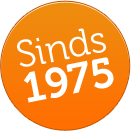
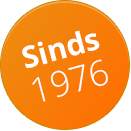
progress

diff --git a/dev/scss/modules/_content.scss b/dev/scss/modules/_content.scss
@@ -44,7 +44,7 @@
 	margin-left: 174px;
 	position: absolute;
 	right: 0;
-	bottom: -134px;
+	bottom: -74px;
 }
 
 
@@ -148,6 +148,26 @@
 	width: 255px;
 }
 
+.home-boxes-right-top{
+	text-align: center;
+	margin-top: 20px;
+	position: relative;
+}
+
+.home-boxes-right-top b{
+	font-size: 16px;
+}
+
+.home-boxes-right-top p {
+	text-align: left;
+	color: #6f6f6f;
+}
+
+.home-boxes-right-top img{
+	margin-top: 10px;
+	width: 255px;
+}
+
 .home-box-right{
 	margin-top: 20px;
 }
@@ -157,7 +177,7 @@
 }
 
 .producten-lijst{
-	color: #8a8a8a;
+	color: #616161;
 	list-style-image: url('../img/list-button.png');
 	padding-left: 16px;
 }
@@ -220,6 +240,13 @@
 
 	.orange-button{
 		display: none;
+	}
+
+}
+
+@media all and (max-width: 500px) { 
+	.big-button-text{
+		font-size: 14px;
 	}
 
 }

diff --git a/dev/scss/modules/_footer.scss b/dev/scss/modules/_footer.scss
@@ -1,7 +1,7 @@
 .Footer {
 	background: #244570;
-	padding-top: 30px;
-	padding-bottom: 30px;
+	padding-top: 45px;
+	padding-bottom: 0px;
 }
 
 .Socket{

diff --git a/dev/php/templates/template-home.php b/dev/php/templates/template-home.php
@@ -67,33 +67,57 @@ Template Name: Homepage
 <div class="u-gridContainer main-content">
 	<div class="u-gridRow main-content-space"> 
 		<div class="u-gridCol4 home-boxes">
-			 <b>Bent u opzoek naar dubbelglas?</b>
+			 <b>Meer informatie over Dubbelglas</b>
 			 <a class="button-style meer-info-box" href="/dubbelglas">Meer informatie</a>
 			 <img src="<?php echo get_stylesheet_directory_uri();?>/img/dubbelglas.jpg">
 			 <p>De Glaswacht is gespecialiseerd in dubbelglas.</p>
 		</div>
 
 		<div class="u-gridCol4 home-boxes">
-			 <b>U zoekt een specifiek glasproduct?</b>
+			 <b>Dubbelglas in bestaande kozijnen</b>
 			 <a class="button-style meer-info-box" href="http://www.glaswacht.com">Meer informatie</a>
-			 <img src="<?php echo get_stylesheet_directory_uri();?>/img/glasproduct.jpg">
-			 <p>De glaswacht heeft een breed assortiment aan producten.</p>
+			 <img src="<?php echo get_stylesheet_directory_uri();?>/img/houtenkozijn.png">
+			 <p>Wij plaatsen Dubbelglas in bestaande <br> houten kozijnen</p>
+		</div>
+
+		<div class="u-gridCol4 home-boxes-right-top">
+			 <b>Dubbelglas in Stalen kozijnen</b>
+			 <a class="button-style meer-info-box" href="/stalen-kozijnen">Meer informatie</a>
+			 <img src="<?php echo get_stylesheet_directory_uri();?>/img/stalenkozijn.png">
+			 <p>Wij plaatsen Dubbelglas in bestaande <br> stalen kozijnen</p>
+		</div>			
+	</div>
+
+	<div class="u-gridRow main-content-space"> 
+		<div class="u-gridCol4 home-boxes">
+			 <b>Dubbelglas in Aluminium kozijnen</b>
+			 <a class="button-style meer-info-box" href="/aluminium-kozijnen">Meer informatie</a>
+			 <img src="<?php echo get_stylesheet_directory_uri();?>/img/aluminiumkozijnen.png">
+			 <p>Wij plaatsen Dubbelglas in bestaande <br> aluminium kozijnen</p>
+		</div>
+
+		<div class="u-gridCol4 home-boxes">
+			 <b>Dubbelglas Stuk?</b>
+			 <a class="button-style meer-info-box" href="/dubbelglas-stuk">Meer informatie</a>
+			 <img src="<?php echo get_stylesheet_directory_uri();?>/img/dubbelglas-stuk.png">
+			 <p>Natuurlijk kunnen wij ook uw dubbele ruit repareren</p>
 		</div>
 
 		<div class="u-gridCol4 home-box-right">
 			 <b>Glaswacht verzorgt o.a.</b>
 
 			 <ul class="producten-lijst">
-			 	<li>Alle glasreparaties</li>
-			 	<li>Dubbele beglazing</li>
-			 	<li>Spiegels- en vensterglas</li>
-			 	<li>Glas in lood / koper</li>
-			 	<li>Badkamer deuren / schermen</li>
-			 	<li>Hardglas-beveiliging</li>
-			 	<li>Gezandstraald glas</li>
+			 	<li><a href="http://www.glaswacht.com/">Alle glasreparaties</a></li>
+			 	<li><a href="http://www.glaswacht.com/">Dubbele beglazing</a></li>
+			 	<li><a href="http://www.glaswacht.com/producten/spiegels/">Spiegels- en vensterglas</a></li>
+			 	<li><a href="http://www.glaswacht.com/">Glas in lood / koper</a></li>
+			 	<li><a href="http://www.glaswacht.com/producten/Alles-voor-in-de-douche/">Badkamer deuren / schermen</a></li>
+			 	<li><a href="http://www.glaswacht.com/producten/veiligheidsglas/">Hardglas-beveiliging</a></li>
+			 	<li><a href="http://www.glaswacht.com/">Gezandstraald glas</a></li>
 			 </ul>
 		</div>				
 	</div>
+
 </div>
 
 <?php get_footer(); ?>

diff --git a/dev/php/templates/footer.php b/dev/php/templates/footer.php
@@ -28,10 +28,12 @@
 						2565 ES Den Haag <br>
 						T: (070) 363 2860 <br>
 						F: (070) 427 6866 <br>
-						E: info@glaswacht.nl
+						E: info@glaswacht.com
 					</p>
 
-					<a href="/app">Download de Dubbelglas app</a>
+					<a href="/app">Download de Dubbelglas app</a> <br><br>
+			 
+			 		<a target="_blank" href="https://www.facebook.com/pages/Glashandel-de-Glaswacht-Den-Haag/431399946898058?sk=timeline&ref=page_internal"><img src="<?php echo get_stylesheet_directory_uri();?>/img/facebook.png"></a>
 
 					<?php if ( is_active_sidebar( 'footer-widgets' ) ) : ?>
 					<div class="Footer-inner u-gridRow">

diff --git a/dev/php/templates/template-landingspagina.php b/dev/php/templates/template-landingspagina.php
@@ -42,7 +42,7 @@ Template Name: Landingspagina
 
 
 	
-				<h5 class="titel-blue">De Glaswacht</h5>
+				<h5 class="titel-blue">De Glaswacht is gespecialiseerd in het plaatsen van dubbelglas in bestaande kozijnen</h5>
 			
 				<p class="intro-text">
 					Glashandel de Glaswacht is in 1976 opgericht en een begrip geworden in Den Haag en omgeving. Onze jarenlange ervaring, uitmuntende service en vakkundige installatie is een constante waarde geworden, waar onze zakelijke en particuliere klanten op vertrouwen en bouwen. <br><br>
